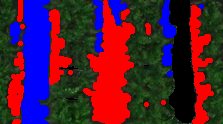
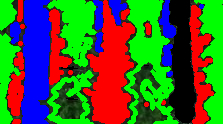
gr

diff --git a/py/ffcv.py b/py/ffcv.py
@@ -50,19 +50,19 @@ for imnum in ['a', 'r']:
     b,g,r=readsplit(imname)
     n=3
     features = channelops(g, n)
-    features = np.hstack((features,channelops(r, n)))
-    for n in [13]:
+    #features = np.hstack((features,channelops(r, n)))
+    for n in [7, 13]:
         features = np.hstack((features,channelops(g, n)))
-        features = np.hstack((features,channelops(r, n)))
-    criteria = (cv2.TERM_CRITERIA_EPS + cv2.TERM_CRITERIA_MAX_ITER, 10, 1.0)
-    ret, labels, centers = cv2.kmeans(features, 4, criteria, 1, cv2.KMEANS_RANDOM_CENTERS)
-    labels = labels.reshape(g.shape)
-    B=(labels==0)*255
-    G=(labels==1)*255
-    R=(labels==2)*255
-    segment=np.uint8(cv2.merge((B,G,R)))
-    cv2.imshow('segment',np.uint8(segment))
-    cv2.waitKey(0)
+        #features = np.hstack((features,channelops(r, n)))
+    ##criteria = (cv2.TERM_CRITERIA_EPS + cv2.TERM_CRITERIA_MAX_ITER, 10, 1.0)
+    ##ret, labels, centers = cv2.kmeans(features, 4, criteria, 1, cv2.KMEANS_RANDOM_CENTERS)
+    ##labels = labels.reshape(g.shape)
+    ##B=(labels==0)*255
+    ##G=(labels==1)*255
+    ##R=(labels==2)*255
+    ##segment=np.uint8(cv2.merge((B,G,R)))
+    ##cv2.imshow('segment',np.uint8(segment))
+    ##cv2.waitKey(0)
     #cv2.destroyAllWindows()
     em = cv2.EM(4,cv2.EM_COV_MAT_DIAGONAL)
     ret, ll, labels, probs = em.train(features)
